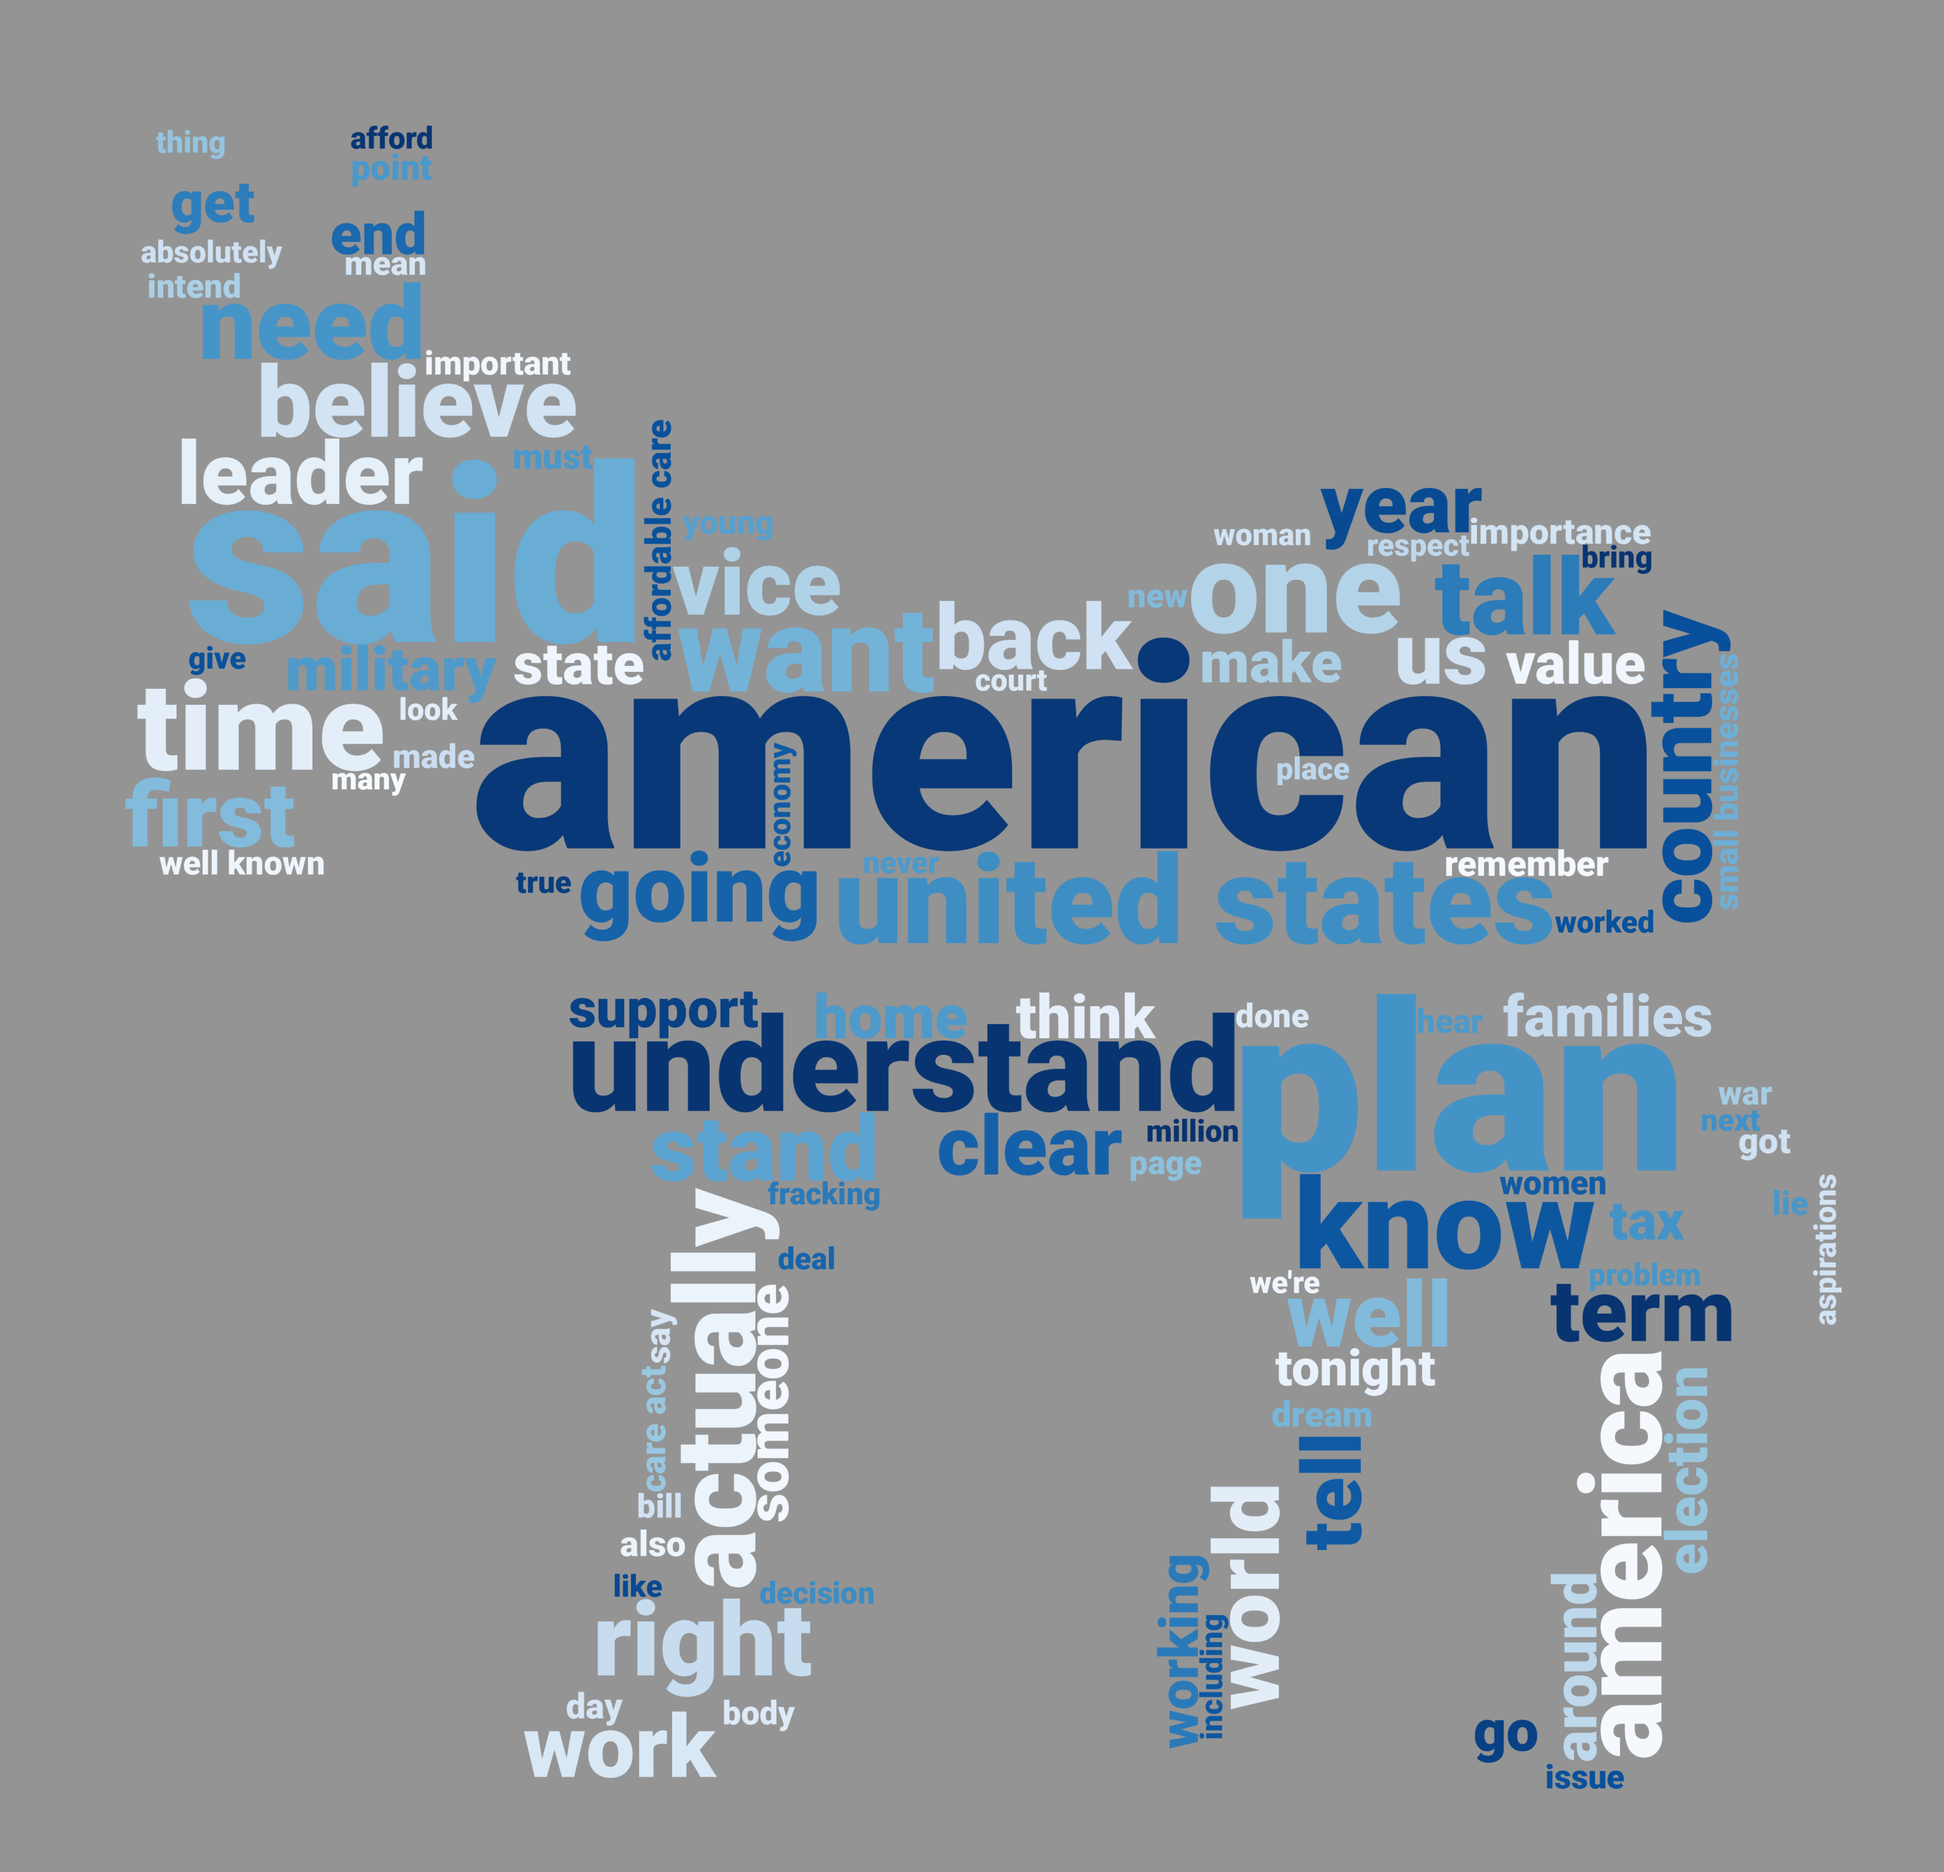
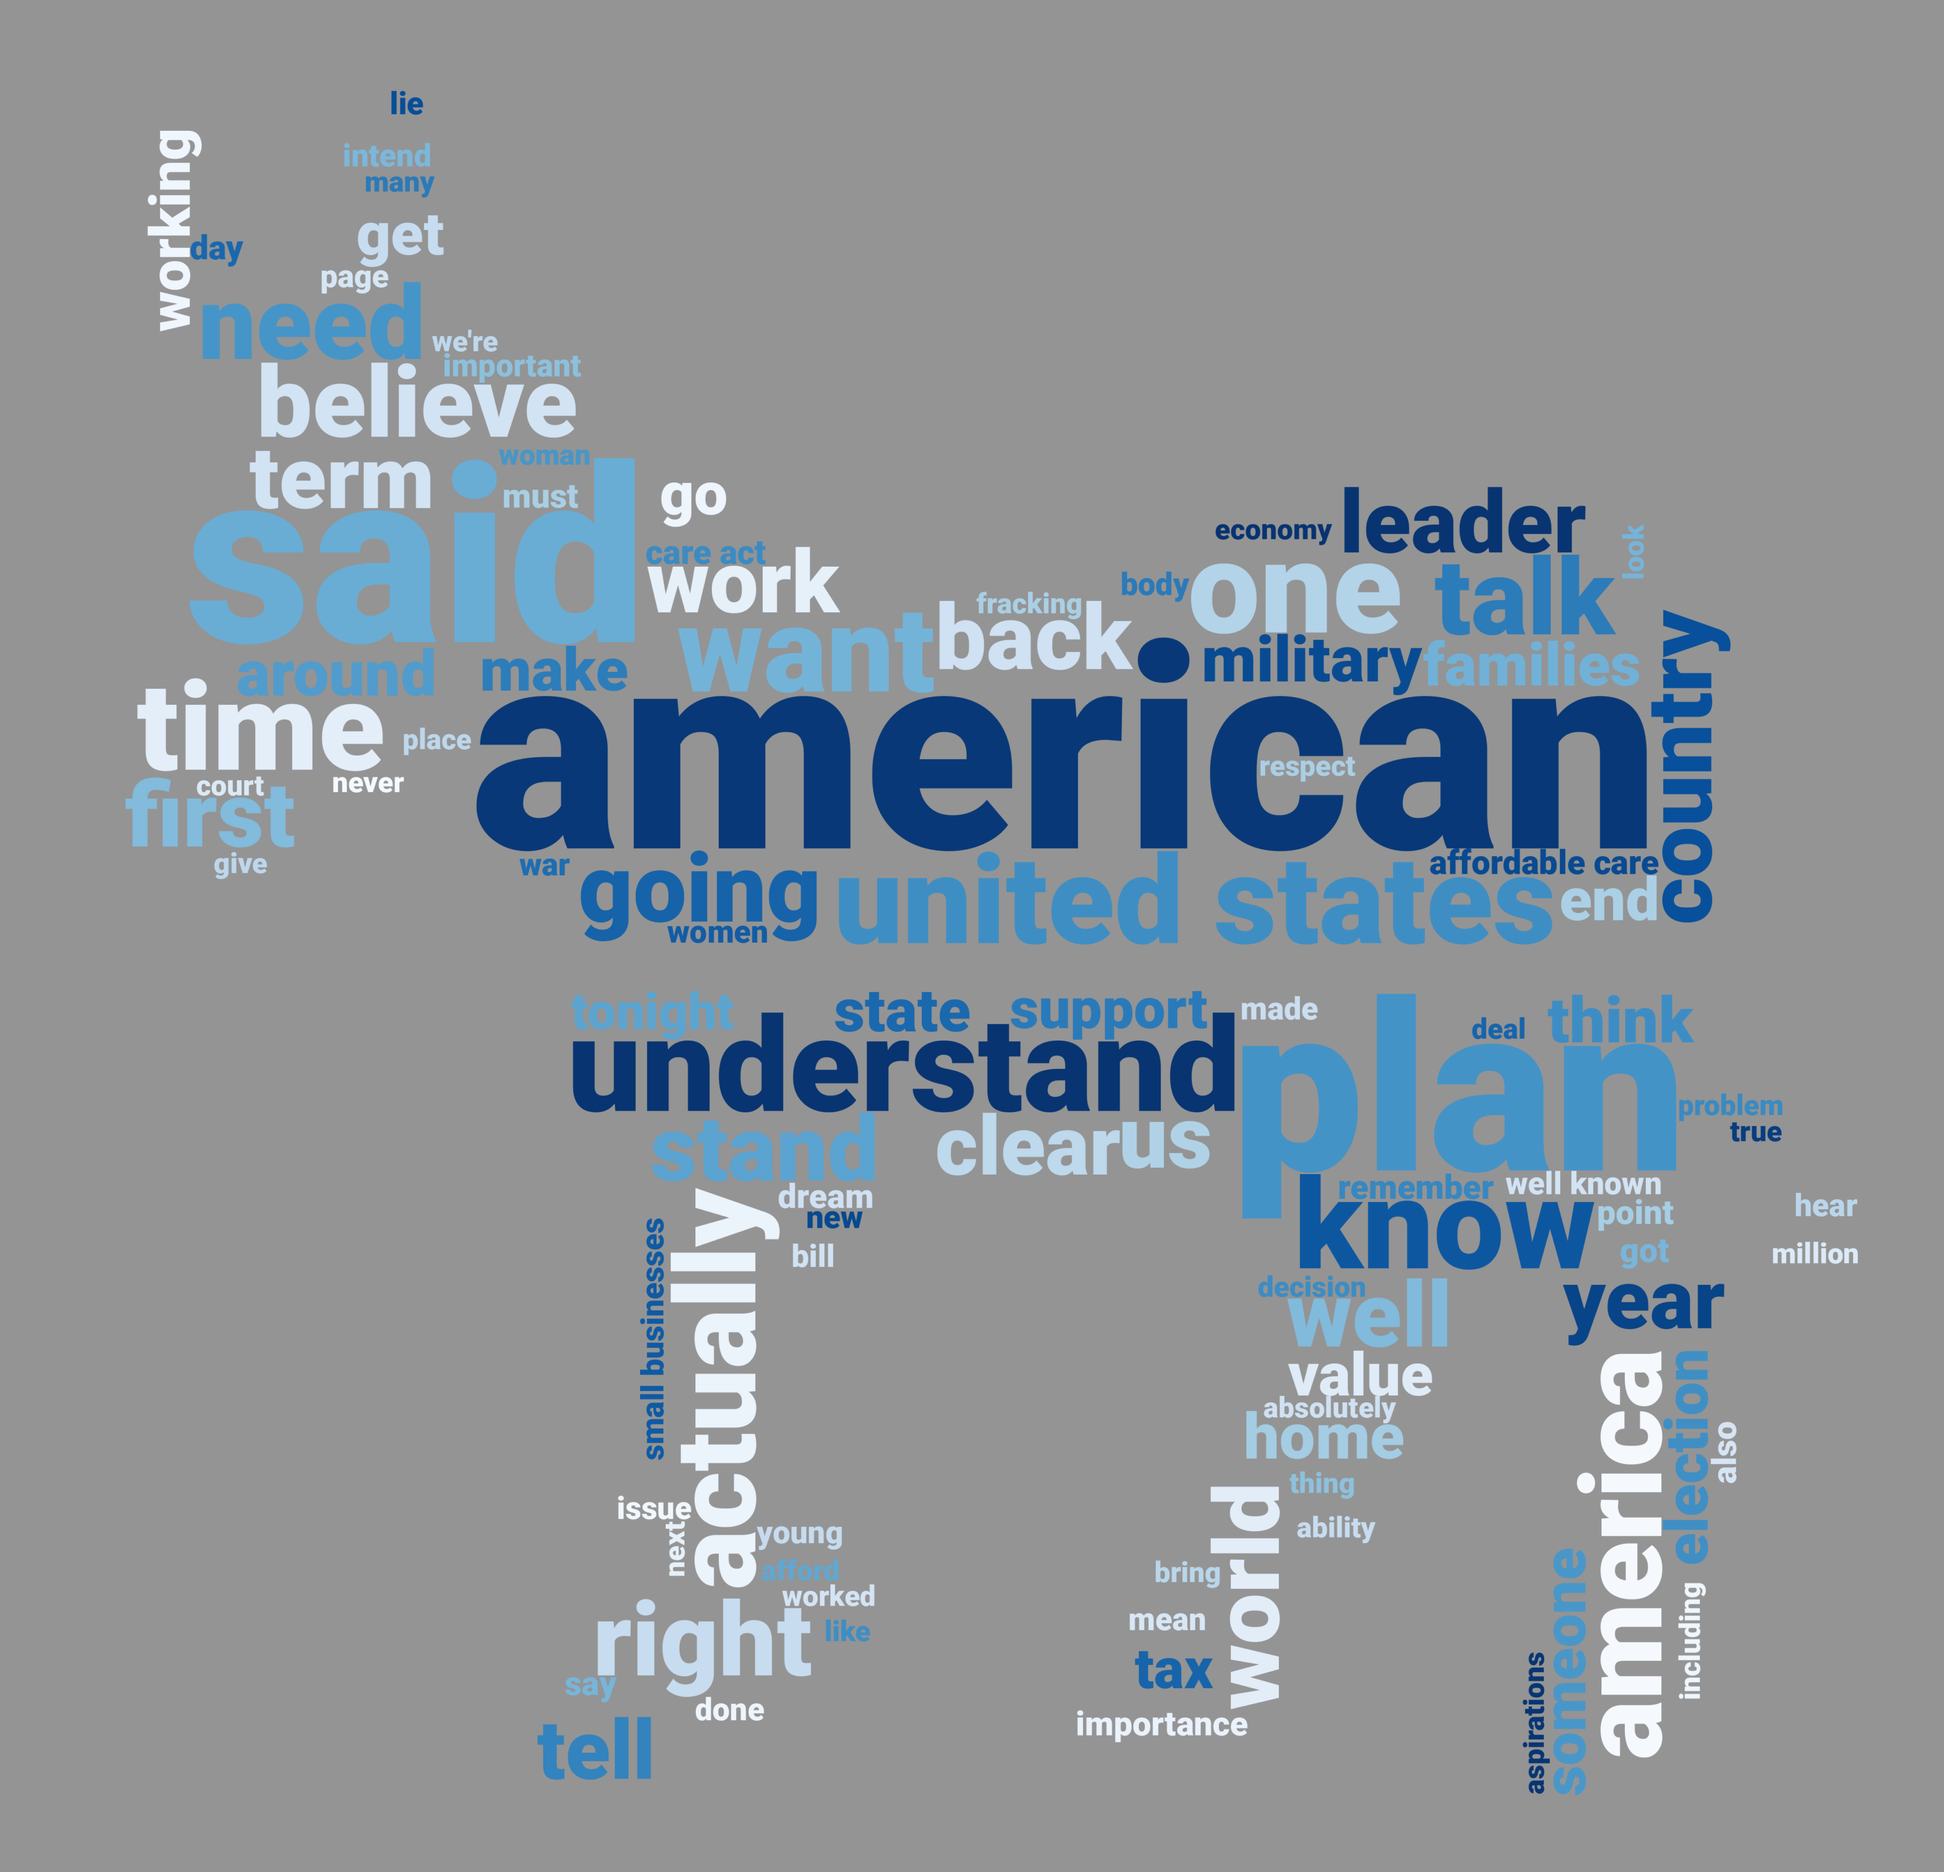
Added 'vice' to ignore words

diff --git a/debatecloud.py b/debatecloud.py
@@ -34,7 +34,7 @@ def parse_transcript(transcript):
 
 def generate_wordcloud(text, filename, max_words=130, background_color='white', colormap='viridis', mask=None, min_font_size=24, random_state=None, font_path=None):
     stop_words = set(stopwords.words('english'))
-    custom_stopwords = {'a', 'donald', 'trump', 'is', 'the', 'former', 'president', 'and', 'would', 'you', 'let', 'people', 'something', 'kamala','harris'}
+    custom_stopwords = {'a', 'vice', 'donald', 'trump', 'is', 'the', 'former', 'president', 'and', 'would', 'you', 'let', 'people', 'something', 'kamala','harris'}
     stop_words.update(custom_stopwords)
     text = text.lower()
 
